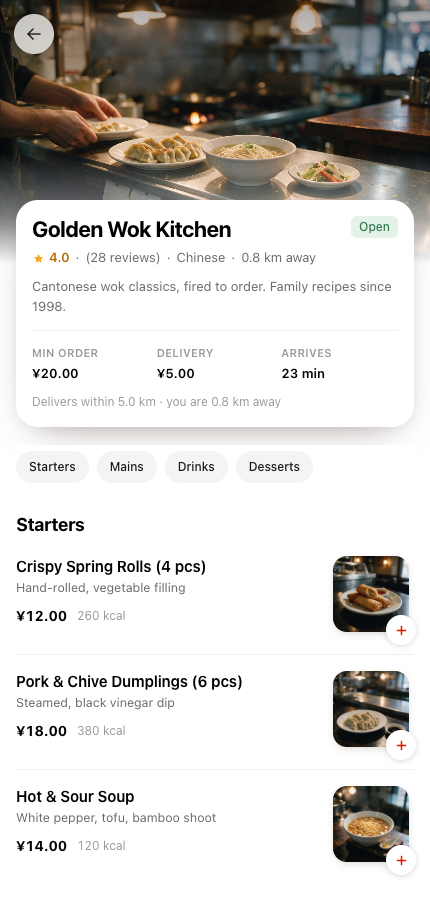
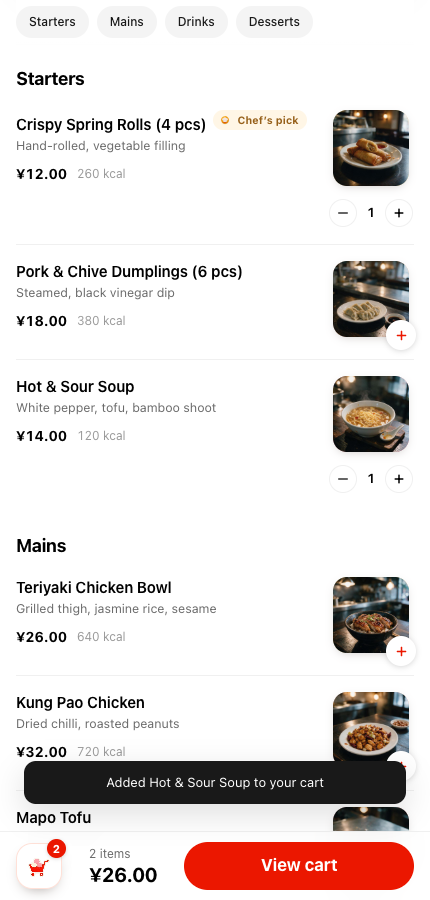
docs: the four-frame cart sprite

diff --git a/docs/插图与配图.md b/docs/插图与配图.md
@@ -143,6 +143,13 @@ CSS 72KB → 17KB，JS 132KB → 32KB。
 | `sticker-gift` | 券包商店每张卡片的右上角；券列表的空状态 | 50 / 104 |
 | `sticker-chef` | 菜单上 `Chef's pick` 的标签（每店一道，见 `shared/catalog.py` 的 `_CHEF_PICKS`） | 16 |
 | `sticker-medal` | 骑手工作台「Deliveries today」有数字时挂在旁边 | 26 |
+| `cart-sprite` | 点餐页/搜索页底栏的购物车按钮，**四帧动画** | 28 |
+
+`cart-sprite` 是个特例：它要动。做法是**一次生成四个动作**（静止 / 压扁 / 弹起 / 落稳），
+再用 `tools/make-cart-sprite.py` 抠图、按 x 轴投影找出四个图标、统一宽度与基线后拼成 4 格精灵图。
+前端用一个 `background-position` 的 `step-end` 动画逐帧播 —— 一次请求，零 JS 定时器。
+
+⚠ 直接四等分切会左右乱跳：模型给的四个图标位置和大小是随手摆的，**必须重新归一化**。
 
 **做法是绿幕 + 抠图两步**，脚本里没有内置：
 
